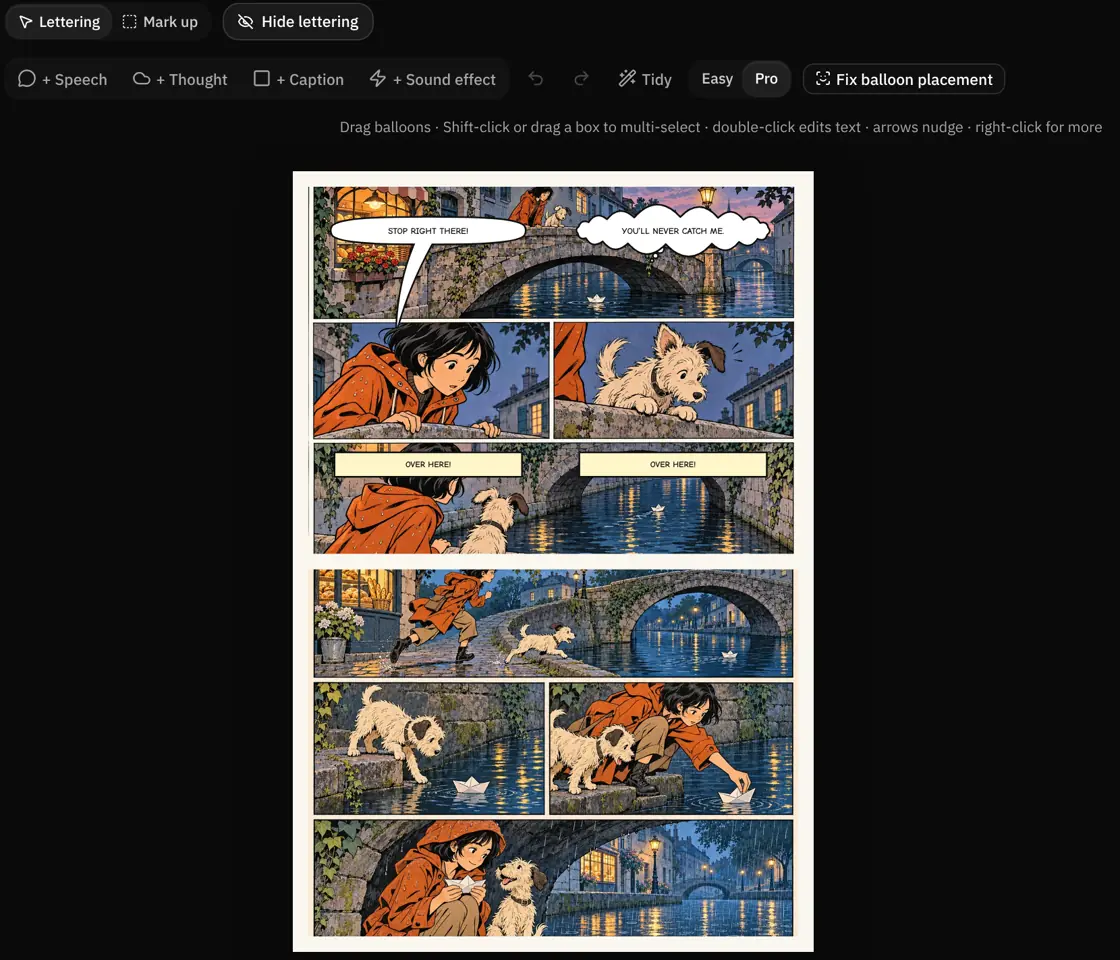
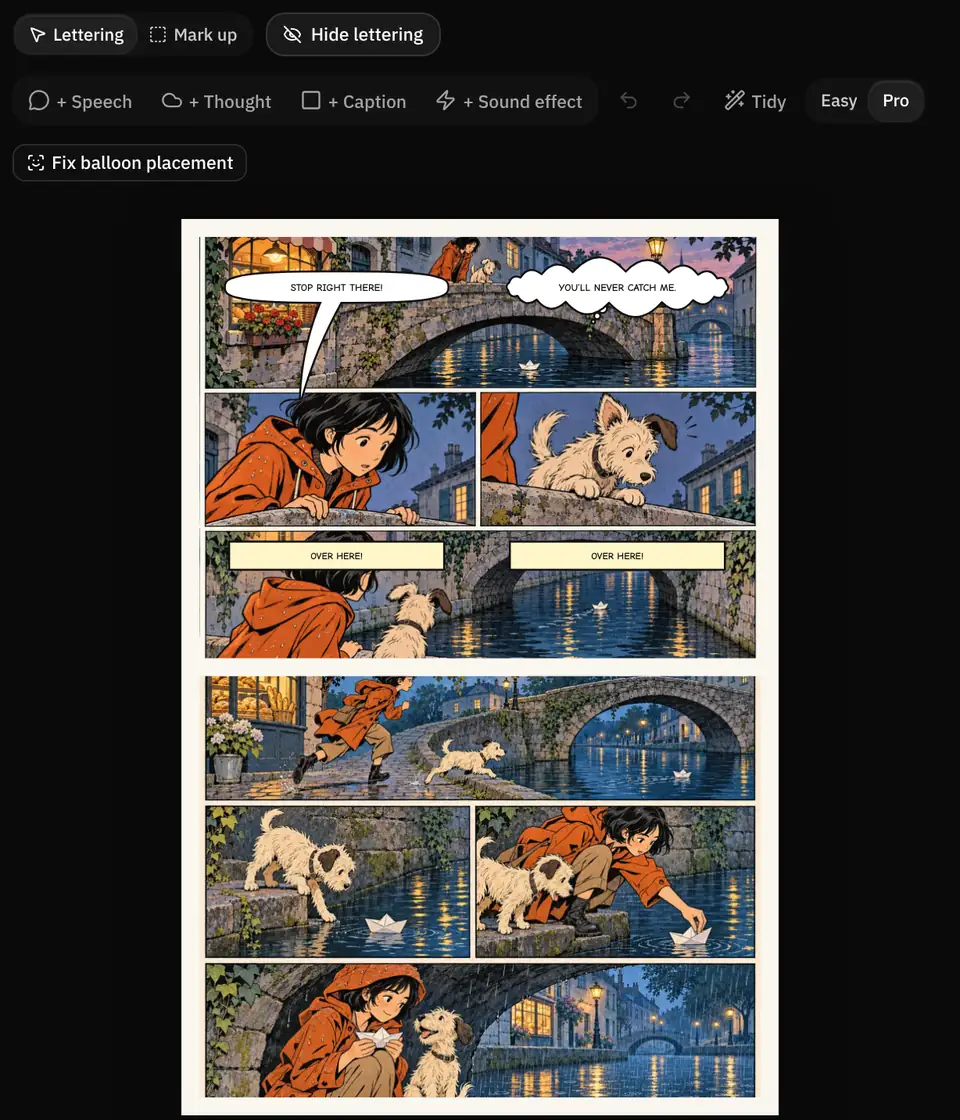
Comics landing: truer quality wording, a larger lettering picture, a plainer clip toggle
The Models section now names the quality levels every member can use (Draft and
Standard) instead of saying there are only two, since the quality menu also lists Pro
for accounts that have it. The lettering picture is re-shot from the page editor at a
width where the page is drawn largest, without the hint line, at a portrait size. The
clip's Play and Pause control no longer also reports a pressed state, so a screen
reader hears only what a press does. Below 640 px the interest form's email field keeps
its own height in a narrow desktop window. The media note no longer refers to a cache
rule the landing does not ship.

Claude-Session: https://claude.ai/code/session_018pzRy2esH5JohEJ4bCQKtK

diff --git a/dreamstreamcomicstudio/components/comicshost/landing/landingModels.ts b/dreamstreamcomicstudio/components/comicshost/landing/landingModels.ts
@@ -1,6 +1,6 @@
 // The names and numbers the landing shows about the studio, read from the studio's own registries so the page cannot
 // drift from what members get: the image model new comics start on (the Draft and Standard tiers' model), the other
-// image models the studio's picker offers, the two quality levels a member picks between, the page cap, the built-in
+// image models the studio's picker offers, the two quality levels every member can use, the page cap, the built-in
 // looks and the languages a comic can be translated into. Only the names members see in the product (each model's
 // nickname, each tier's label) and sizes leave this module: never a registry id, a price, a grade or a benchmark.
 
@@ -25,7 +25,10 @@ export const OTHER_MODELS: readonly string[] = Object.freeze(
     .map((m) => m.nickname)
 );
 
-/** The two quality levels every member can pick between, in order: their names and page sizes. */
+/**
+ * The two quality levels every member can use (Draft and Standard), in order: their names and page sizes. Pro is left
+ * out: whether it runs depends on the account (StudioCaps.qualityTiers), so the page never promises it.
+ */
 export const QUALITY: ReadonlyArray<Readonly<{ name: string; pageSize: string }>> = Object.freeze(
   [TIER_PRESETS.draft, TIER_PRESETS.standard].map((tier) => Object.freeze({ name: tier.label, pageSize: tier.pageRes }))
 );

diff --git a/dreamstreamcomicstudio/components/comicshost/landing/LandingClip.test.tsx b/dreamstreamcomicstudio/components/comicshost/landing/LandingClip.test.tsx
@@ -85,11 +85,12 @@ describe('LandingClip', () => {
   it('plays in view and pauses out of view; the toggle says what it does and flips', async () => {
     const { container } = render(<LandingClip media={clip} />);
     const video = container.querySelector('video')!;
-    expect(toggle(/^Play:/)).toHaveAttribute('aria-pressed', 'true');
+    // The name says what a press does; it never also claims a pressed state (that would read "Play, pressed").
+    expect(toggle(/^Play:/)).not.toHaveAttribute('aria-pressed');
     view(video, true);
     await act(async () => undefined);
     expect(play).toHaveBeenCalledTimes(1);
-    expect(toggle(/^Pause:/)).toHaveAttribute('aria-pressed', 'false');
+    expect(toggle(/^Pause:/)).not.toHaveAttribute('aria-pressed');
     view(video, false);
     expect(pause).toHaveBeenCalled();
     expect(toggle(/^Play:/)).toBeInTheDocument();

diff --git a/dreamstreamcomicstudio/components/comicshost/landing/landingMedia.ts b/dreamstreamcomicstudio/components/comicshost/landing/landingMedia.ts
@@ -5,7 +5,7 @@
 // landingMedia.test.ts pins that every file exists, is within its budget and is listed here.
 //
 // `width` / `height` are the display size in CSS pixels; each still's WebP is twice that (sharp on 2x screens). A file
-// never changes in place: a new capture gets a new name, so the one-day cache can never show a stale picture.
+// never changes in place once shipped: a new capture gets a new name, so no cache can show a stale picture.
 
 export interface LandingSources {
   webp?: string;
@@ -50,8 +50,8 @@ export const LANDING_MEDIA: readonly LandingMedia[] = [
   ),
   still(
     'lettering',
-    560,
     480,
+    560,
     'The page editor with lettering tools for speech, thoughts, captions and sound effects above a lettered comic page.',
     'The page editor on a sample project: every balloon is text you can drag and rewrite.'
   ),

diff --git a/dreamstreamcomicstudio/components/comicshost/landing/landing.css b/dreamstreamcomicstudio/components/comicshost/landing/landing.css
@@ -190,6 +190,14 @@
   box-shadow: var(--ds-shadow-soft);
 }
 .landing-register-form { margin-top: 24px; }
+/*
+ * The app's form stacks its email field over its button below 640 px with the field still `flex-1`: in a column that
+ * basis of 0 cancels the field's own height, so with a fine pointer it drew about 20 px tall. Restore its own height here,
+ * without touching the form (another team owns it); a flex basis of auto is a no-op for every other layout.
+ */
+@media (max-width: 639.98px) {
+  .landing-register-form label { flex-basis: auto; }
+}
 .landing-register-action { margin-top: 24px; }
 .landing-member { display: flex; flex-wrap: wrap; align-items: center; gap: 2px 8px; margin: 16px 0 0; font-size: 14px; color: var(--ds-muted); }
 

diff --git a/dreamstreamcomicstudio/components/comicshost/landing/landingCopy.ts b/dreamstreamcomicstudio/components/comicshost/landing/landingCopy.ts
@@ -83,7 +83,7 @@ export const MODELS = {
       body: 'The studio’s model picker also lists {OTHER_MODELS}. Which ones you can pick depends on your account.'
     },
     {
-      title: 'Two quality levels',
+      title: 'Draft and Standard quality',
       body: '{DRAFT} makes quick {DRAFT_SIZE} pages to try the story. {STANDARD} makes {STANDARD_SIZE} pages.'
     },
     {

diff --git a/dreamstreamcomicstudio/components/comicshost/landing/LandingClip.tsx b/dreamstreamcomicstudio/components/comicshost/landing/LandingClip.tsx
@@ -119,7 +119,6 @@ export const LandingClip: React.FC<{ media: LandingMedia }> = ({ media }) => {
         title={null}
         variant="secondary"
         size="lg"
-        aria-pressed={!playing}
         className="landing-clip-toggle"
         onClick={toggle}
       >

diff --git a/dreamstreamcomicstudio/docs/design/atlas-skin.md b/dreamstreamcomicstudio/docs/design/atlas-skin.md
@@ -817,15 +817,17 @@ the new art. Reduced motion makes both transitions immediate.
 - **Read.** The Library (a real `/?view=gallery` link) and the featured comics through their share links, kept in
   `landing/flagship.ts` (the flagship opens its English edition), beside a short clip of the reader on a phone.
 - **Register your interest** renders the app's `WaitlistForm` (`kind="access"`) as it is: the form owns its fields, its
-  questions and what it says after sending. Members see "Open My comics" instead.
+  questions and what it says after sending. Members see "Open My comics" instead. Below 640 px `landing.css` gives the
+  form's stacked fields their own height back (a `flex-1` field in a column otherwise drew about 20 px tall in a narrow
+  desktop window).
 - **Questions** are native `<details className="ds-disclosure">`; the footer adds a row of links to the page's sections.
 
 ### The landing's pictures and clip
 
 `landing/landingMedia.ts` lists them; `LandingShot` draws a still (`loading="lazy"`, `decoding="async"`, declared size,
-alt text), `LandingClip` the clip. Files live in `public/landing/` (same origin), light and dark for each still; the
-reader is dark in both themes, so one recording serves both. Each file stays near 120 KB (`landingMedia.test.ts` pins
-the cap, the file list, the 2x still sizes and the alt text). The clip is muted and loops, loads nothing until it nears
+alt text), `LandingClip` the clip. Files live in `public/landing/` on the same origin, light and dark for each still;
+the reader is dark in both themes, so one recording serves both. Each file stays near 120 KB (`landingMedia.test.ts`
+pins the cap, the file list, the 2x still sizes and the alt text). The clip is muted and loops, loads nothing until it nears
 the screen (`preload="none"`), plays only while at least half of it is in view (an `IntersectionObserver`, no timer),
 one clip at a time, and under reduced motion shows its poster with a Play control; a visitor's pause holds.
 
@@ -839,13 +841,15 @@ never from production and never from anyone's comic. The fixture's page, cover a
 1. Build the QA app (`npm run qa:build`) and serve `dist-qa` with `vite preview` on `127.0.0.1`. The capture scripts
    (Playwright with the local Chromium, kept outside the repository) block every other host.
 2. Stills, at device scale 2, `skin=atlas&img=png&still=1`, light and dark (`theme=`): the plan card
-   (`surface=studio&tab=pages`, cut above its footnote), the lettering column (`surface=editor&page=1&mode=pro`), the
+   (`surface=studio&tab=pages`, cut above its footnote), the page editor's lettering column in a 1024 px window, where
+   the page is drawn largest (`surface=editor&page=1&mode=pro`, cut before the AI panel and its usage words), the
    language picker (`surface=studio&tab=languages` after "Add a language") and the Share sheet's link column
    (`share=live-public`, cut above the embed code and the readers' numbers).
 3. The clip: `surface=reader&page=1` at 390×700 as a touch phone, two page turns forward and two back, ending on the
    first page so the loop is seamless.
-4. Encode with ffmpeg: stills `-c:v libwebp -quality 75 -compression_level 6` at twice the display width; the clip at
-   280 px wide, 15 fps, as WebM (`libvpx-vp9 -crf 48`) and MP4 (`libx264 -crf 34`), its poster the first frame.
+4. Encode with ffmpeg: stills `-c:v libwebp -quality 75 -compression_level 6` (65 for the lettering page, whose art is
+   busy) at twice the display width; the clip at 280 px wide, 15 fps, as WebM (`libvpx-vp9 -crf 48`) and MP4
+   (`libx264 -crf 34`), its poster the first frame.
 5. Look at every frame before committing it: no price or usage words, no spend control, no model name, no error or
    failed tile, nothing only admins see.
 
